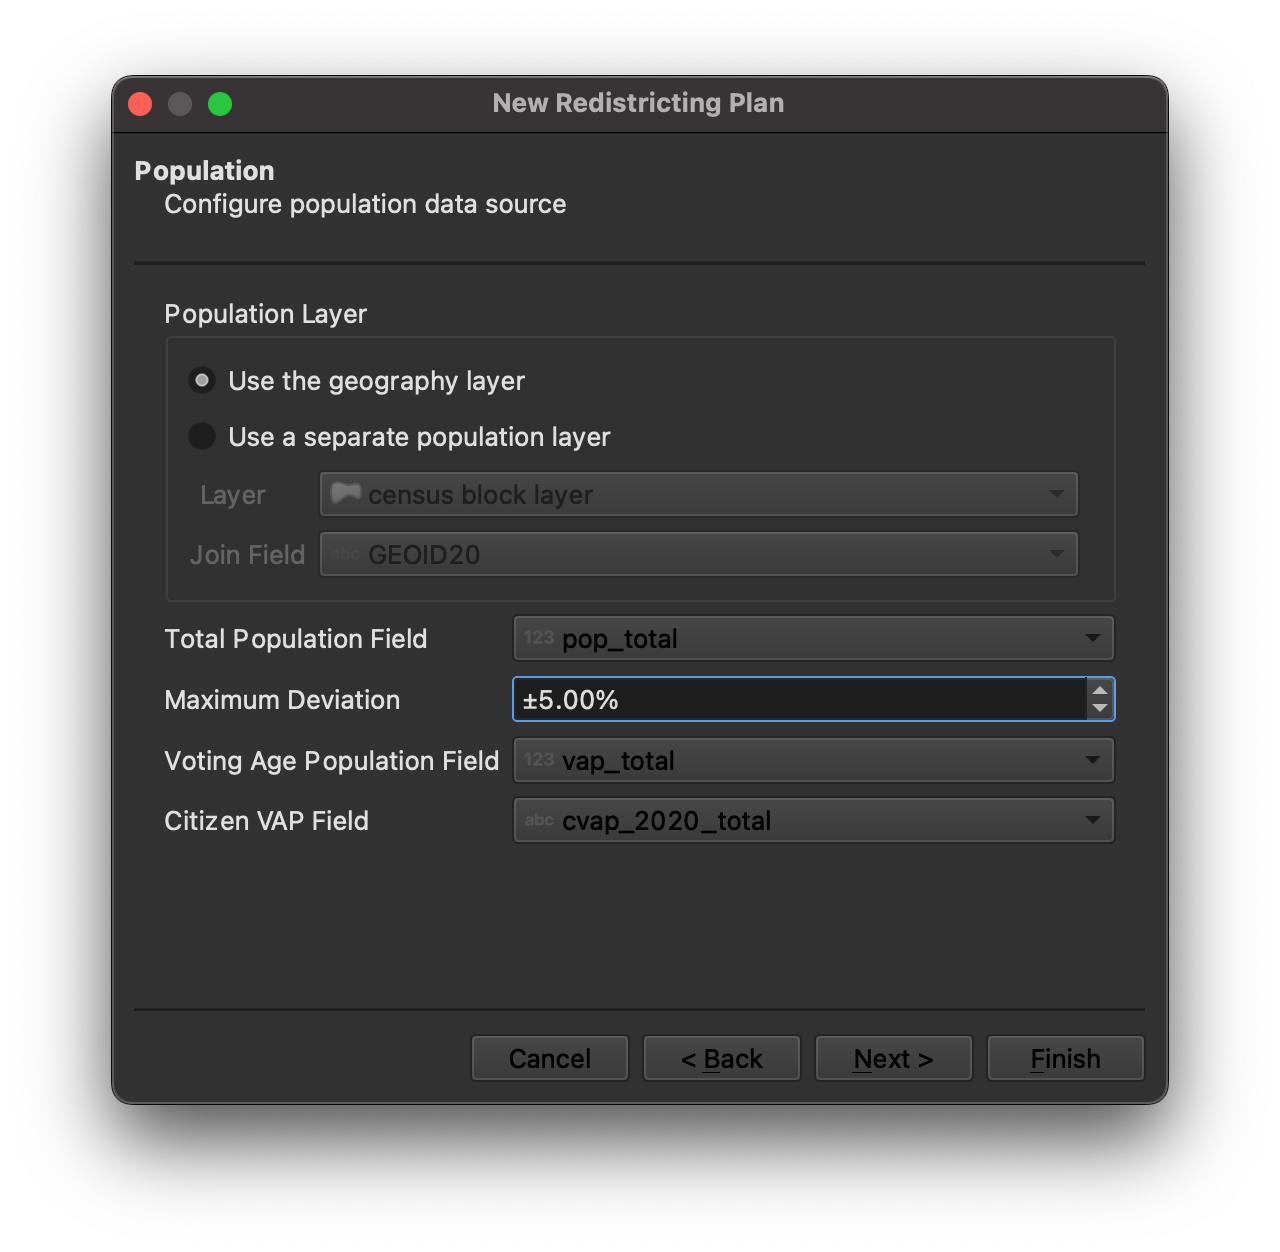
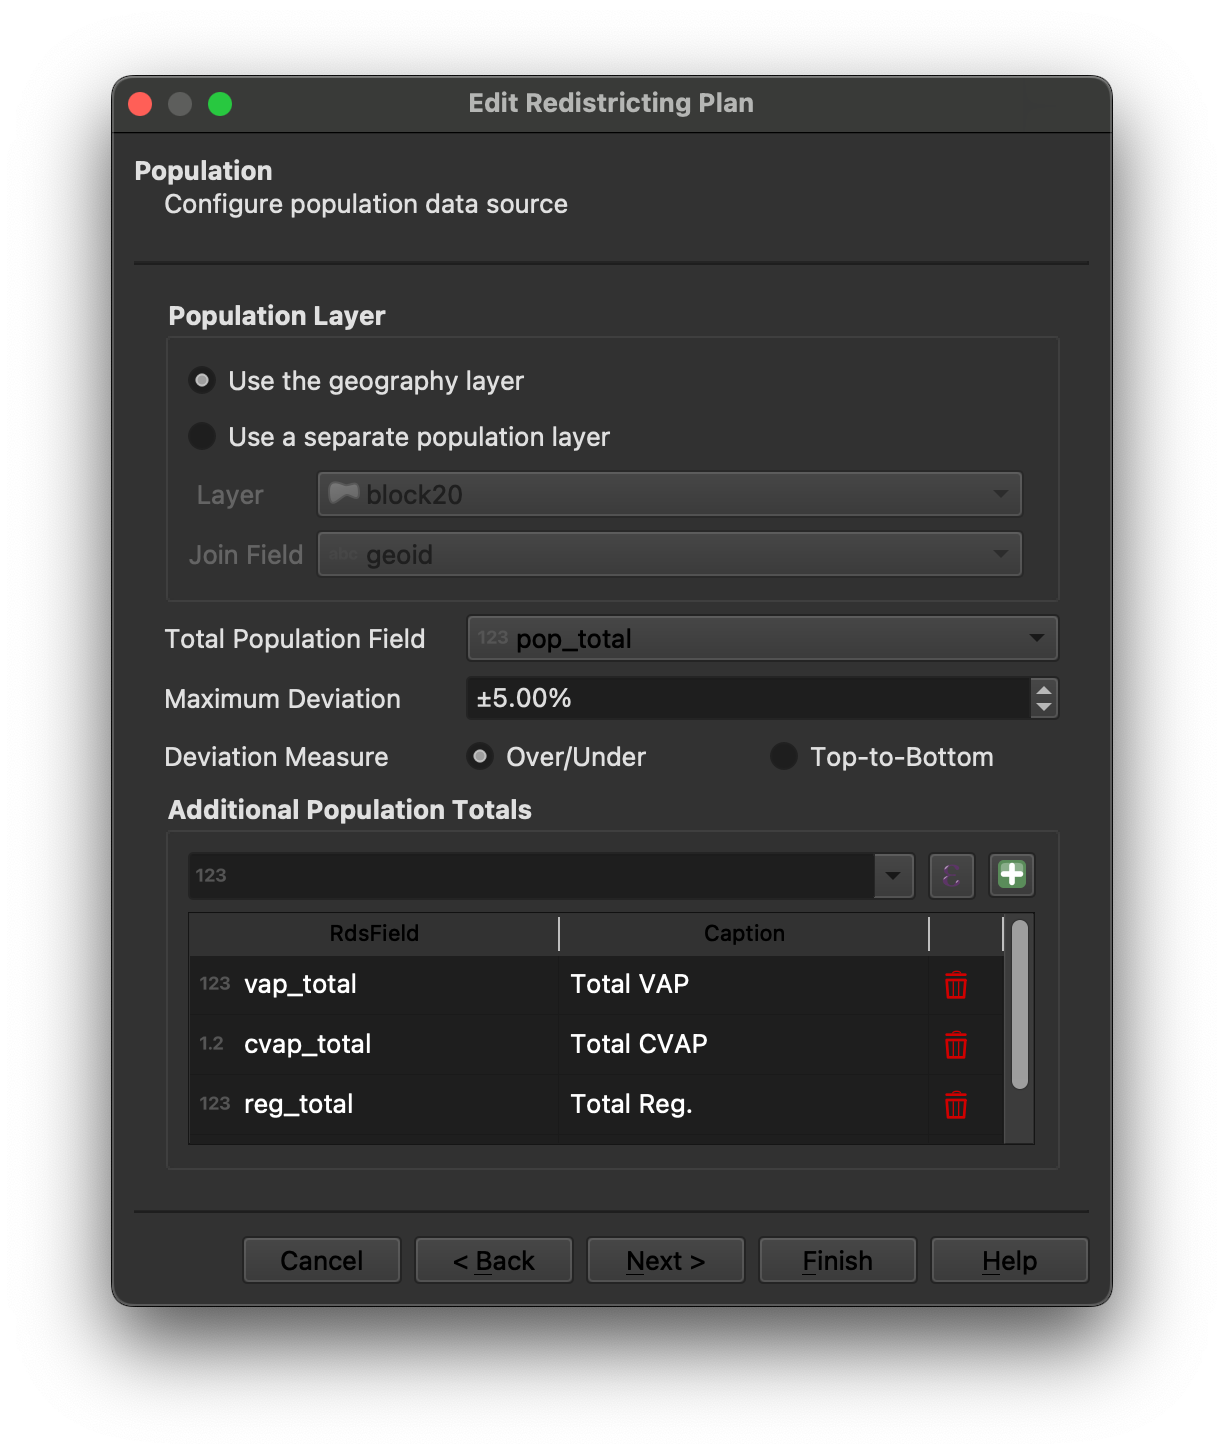
Update documentation

diff --git a/docs/source/conf.py b/docs/source/conf.py
@@ -18,12 +18,12 @@
 # -- Project information -----------------------------------------------------
 
 project = 'QGIS Redistricting Plugin'
-project_copyright = '2022, Stuart C. Naifeh'
+project_copyright = '2025, Stuart C. Naifeh'
 author = 'Stuart C. Naifeh'
 
-version = '0.0.1'
+version = '0.0.4'
 
-release = '0.0.1-alpha'
+release = '0.0.4-alpha'
 
 
 # -- General configuration ---------------------------------------------------
@@ -51,7 +51,7 @@ exclude_patterns = []
 html_theme = 'cloud'
 html_scaled_image_link = False
 html_favicon = 'images/icon.png'
-html_css_files = 'help.css'
+html_css_files = ['help.css']
 
 # Add any paths that contain custom static files (such as style sheets) here,
 # relative to this directory. They are copied after the builtin static files,

diff --git a/docs/source/usage/create_plan.rst b/docs/source/usage/create_plan.rst
@@ -1,26 +1,28 @@
 Create a New Redistricting Plan
 ===============================
 
-.. note::   
-            Before you can create a plan, you must create a QGIS project that 
-            includes the layer or layers containing the geographic units and 
+.. note::
+            Before you can create a plan, you must create a QGIS project that
+            includes the layer or layers containing the geographic units and
             demographic data from which your redistricting plan will be built.
 
 The \"Create New Plan\" dialog
 ------------------------------
 
-When New Redistricting Plan is selected from the QGIS redistricting plugin toolbar or 
-menu, the "Create New Plan" dialog guides you through creating a redistricting plan.
+When New Redistricting Plan is selected from the QGIS redistricting plugin
+toolbar or menu, the "Create New Plan" dialog guides you through creating
+a redistricting plan.
 
 .. _page-1:
 
 Page 1 - Plan Details
 ^^^^^^^^^^^^^^^^^^^^^
 
-The first page of the "Create New Plan" dialog allows you to select a name for your plan,
-provide the path to a new GeoPackage file that will contain your plan layers, and specify
-the number of districts in your plan and the number of members who will represent those 
-districts. You may also provide an optional description. The following constraints apply. 
+The first page of the "Create New Plan" dialog allows you to select a name for
+your plan, provide the path to a new GeoPackage file that will contain your
+plan layers, and specify the number of districts in your plan and the number
+of members who will represent those districts. You may also provide an
+optional description. The following constraints apply.
 
 * The plan name must be unique among redistricting plans for your project
 * There must be two or more districts in your plan
@@ -33,25 +35,32 @@ districts. You may also provide an optional description. The following constrain
 Page 2 - Geography
 ^^^^^^^^^^^^^^^^^^
 
-The second page of the "Create New Plan" dialog allows you to define the geography from
-which your plan will be built.
+The second page of the "Create New Plan" dialog allows you to define the
+geography from which your plan will be built.
 
-``Import Geography from Layer`` - Specify the layer containing the smallest units of 
-geography you will use to create your plan (e.g., census blocks). 
+``Import Geography from Layer`` - Specify the layer containing the smallest
+units of geography you will use to create your plan (e.g., census blocks).
+QGIS Redistrictin Plugin can use geography from any vector layer format
+supported by QGIS. However, formats such as PostGIS or GeoPackage, which
+allow for indexes on attribute fields, provide better performance than
+formats such as ESRI Shapefile or GeoJson.
 
-``Primary Geography ID Field`` - Specify the layer attribute that uniquely identifies 
-the geographic units. This field will be used to join the layer containing the demographic 
-data (if it is different from the geography layer).
+``Primary Geography ID Field`` - Specify the layer attribute that uniquely
+identifies the geographic units. This field will be used to join the layer
+containing the demographic data (if it is different from the geography layer).
 
-``Geography Name`` - You may also provide a more descriptive label for your geographic units here.
+``Geography Name`` - You may also provide a more descriptive label for your
+geographic units here.
 
-``Additional Geography`` - Here, you may define additional units of geography that may be used 
-to build your districts. Geography is defined using fields from the primary geography layer.
-For example, if your primary layer is U.S. Census Bureau census blocks, and each block contains 
-an identifier for the county or census tract in which it falls, you can add that field to the 
-list of additional geography to allow building districts from counties or census tracts. You may
-define additional geography using individual attriabutes or QGIS expressions. Once the 
-addtional unit is added, a more descriptive caption or label can be provided.
+``Additional Geography`` - Here, you may define additional units of geography
+that may be used to build your districts. Geography is defined using fields
+from the primary geography layer. For example, if your primary layer is U.S.
+Census Bureau census blocks, and each block contains an identifier for the
+county or census tract in which it falls, you can add that field to the list
+of additional geography to allow building districts from counties or census
+tracts. You may define additional geography using individual attributes or
+QGIS expressions. Once the addtional unit is added, a more descriptive caption
+or label can be provided.
 
 .. image:: /images/create_plan_page2.png
 
@@ -59,30 +68,41 @@ addtional unit is added, a more descriptive caption or label can be provided.
 
 Page 3 - Population
 ^^^^^^^^^^^^^^^^^^^
+
 The third page of the "Create New Plan" dialog allows you to specify the layer
 containing the population data your plan will use.
 
-``Population Layer`` - If your population data is contained in a separate layer from
-your geographical building blocks, specify the population layer here. Population data 
-must be provided at the same level of geography as the geographic units. If not using a
-separate population layer, specify "Use the geography layer" here.
+``Population Layer`` - If your population data is contained in a separate
+layer from your geographical building blocks, specify the population layer
+here. Population data must be provided at the same level of geography as the
+geographic units. If not using a separate population layer, specify "Use the
+geography layer" here.
 
 ``Join Field`` - If using a separate population layer from the geography layer,
-specify the field in the population layer that will be used to join the population 
-data to the geographic units. This field must contain the same geographic identifier 
-as the Geo ID Field used to uniquely identify the geography.
+specify the field in the population layer that will be used to join the
+population data to the geographic units. This field must contain the same
+geographic identifier as the Geo ID Field used to uniquely identify the
+geography.
 
-``Total Population Field`` - Specify the name of the attribute containing the total
-population for each geographic unit.
+``Total Population Field`` - Specify the name of the attribute containing the
+total population for each geographic unit. This field is used to validate that
+each district falls within the maximum deviation allowed for the plan.
 
-``Maximum Deviation`` - Specify the maximum population deviation above or below the 
-ideal population for each district that is permitted for your plan.
+``Maximum Deviation`` - Specify the maximum population deviation above or below
+the ideal population for each district that is permitted for your plan.
 
-``Voting Age Population Field`` - Optionally specify a field containing the total 
-voting age population for each geographic unit.
+``Deviation Measure`` - Select how deviation will be measured for your plan.
+`Over/Under` limits the deviation of each district to plus or minus the
+specified maximum. `Top-to-Bottom` limits the deviation from the largest to
+the smallest district to the specified maximum.
 
-``Citizen VAP Field`` - Optionally specify a field containing the total 
-citizen voting age population for each geographic unit.
+``Additional Population Totals`` - Here, you may optionally define additional
+population totals that will be reported for your districts. For example,
+voting age population or total registered voters. These units may be used as
+the base for calculating percentages for the data fields. See :ref:<_page-4>
+You may define additional population totals using individual attributes or
+QGIS expressions. Once the addtional unit is added, a more descriptive caption
+or label can be provided.
 
 .. image:: /images/create_plan_page3.png
 
@@ -91,16 +111,17 @@ citizen voting age population for each geographic unit.
 Page 4 - Additional Demographic Data
 ^^^^^^^^^^^^^^^^^^^^^^^^^^^^^^^^^^^^
 
-The fourth page of the "Create New Plan" dialog allows you to specify additiolnal 
-demographic data that will be tracked for each district in your plan.
+The fourth page of the "Create New Plan" dialog allows you to specify
+additional demographic data that will be tracked for each district in your
+plan.
 
 Demographic data is defined using fields from the population layer. You may
-define demographic using individual attributes from the population layer or 
-QGIS expressions. Once the addtional demographic data field is added, a more 
-descriptive caption or label can be provided, and you can specify whether to track
-the total population for the demographic group and/or the population of the deographic 
-group as a percentage of total population, voting age population, or citizen voting
-age population.
+define demographic using individual attributes from the population layer or
+QGIS expressions. Once the addtional demographic data field is added, a more
+descriptive caption or label can be provided, and you can specify whether to
+track the total population for the demographic group and/or the population of
+the deographic group as a percentage of total population or one of the
+:ref:`additional population fields<page-3>` defined in your plan.
 
 .. image:: /images/create_plan_page4.png
 
@@ -110,8 +131,8 @@ Page 5 - Import Assignments
 ^^^^^^^^^^^^^^^^^^^^^^^^^^^
 
 The fifth and final page of the "Create New Plan" dialog allows you to optional
-import district assignments for your plan from a CSV or Microsoft Excel file. You
-may also import assignments at a later point using the "Import Assignments" option
-available on the QGIS redistricting plugin menu.
+import district assignments for your plan from a CSV or Microsoft Excel file.
+You may also import assignments at a later point using the "Import Assignments"
+option available on the QGIS redistricting plugin menu.
 
 .. image:: /images/create_plan_page5.png

diff --git a/docs/source/usage/getting_started.rst b/docs/source/usage/getting_started.rst
@@ -1,17 +1,26 @@
 Getting Started with Redistricting
 ==================================
 
-The QGIS Redistricting plugin allows you to create redistricting plans for legislative and other governmental bodies. You specify the number of districts and the geographic units from which plans will be built, as well as other plan parameters, such as what layer and attributes to use for population demographics, the allowable population deviation, and additional geographies to use for drawing districts. Plan parameters are stored as part of the QGIS project, while assignments of geographies to districts and district geometry and metrics are stored as vector layers in a GeoPackage file.
+The QGIS Redistricting plugin allows you to create redistricting plans for
+legislative and other governmental bodies. You specify the number of
+districts and the geographic units from which plans will be built, as well as
+other plan parameters, such as what layer and attributes to use for population
+demographics, the allowable population deviation, and additional geographies
+to use for drawing districts. Plan parameters are stored as part of the QGIS
+project, while assignments of geographies to districts and district geometry
+and metrics are stored as vector layers in a GeoPackage file.
 
 Plugin Toolbar
 --------------
 
-When you install the QGIS redistricting plugin, it will add the redistricting toolbar to the QGIS main window.
+When you install the QGIS redistricting plugin, it will add the redistricting
+toolbar to the QGIS main window.
 
 .. image:: /images/plugin_toolbar.png
 
-All of the QGIS redistricting plugin functions available form the plugin toolbar can
-also be accessed from the QGIS main menu at :menuselection:`Vector --> Redistricting`. 
+All of the QGIS redistricting plugin functions available form the plugin
+toolbar can also be accessed from the QGIS main menu at
+:menuselection:`Vector --> Redistricting`.
 
 ..  |planmgr| image:: /images/icon.svg
     :height: 32px
@@ -29,6 +38,11 @@ also be accessed from the QGIS main menu at :menuselection:`Vector --> Redistric
     :align: top
 
 ..  |datatbl| image:: /images/district_data.svg
+    :height: 32px
+    :width: 32px
+    :align: top
+
+..  |metrics| image:: /images/planmetrics.svg
     :height: 32px
     :width: 32px
     :align: top
@@ -53,9 +67,11 @@ also be accessed from the QGIS main menu at :menuselection:`Vector --> Redistric
     |preview| Display or hide the the preview window. The preview window displays
               the effect on district demographics of pending unsaved changes.
     |datatbl| Display or hide the the district data window. The district data
-              window displays demographic data and metrics for each district and
-              the entire plan, and indicates whether districts are within the
-              required deviation.
+              window displays demographic data and metrics for each district,
+              and indicates whether districts are within the required deviation.
+    |metrics| Display or hide the metrics window. The metrics window displays plan
+              metrics for the entire plan, including population deviation, compactness,
+              and split geographies.
     |button|  Clicking the arrow next to the plan manager button opens the
               redistricting menu, which provides access to additional plugin
               functionality.

diff --git a/docs/source/usage/preview.rst b/docs/source/usage/preview.rst
@@ -1,8 +1,14 @@
 Pending Changes Window
 ======================
 
-The Pending Changes window shows the impact of pending but not yet saved changes on
-the affected districts.
+As you assign geographic units to disticts, the Pending Changes window shows
+the impact of those pending but not yet saved changes on the affected
+districts. Although the district paint tool is the simplest means of visually
+assigning geogrphy to districts, the Pending Changes window will show the
+effect of unsaved changes in assignments no matter how they are made. This
+means you can use any of the tools available in QGIS to edit your plans, and
+the Pending Changes window will show you the effect of those changes on the
+population and demographics of the districts.
 
 .. image:: /images/pending_changes.png
    :scale: 80%

diff --git a/docs/source/usage/data_table.rst b/docs/source/usage/data_table.rst
@@ -1,8 +1,13 @@
 Data Table Window
 =================
 
-The data table window provides demographics and metrics for each district
-in your plan and for the plan as a whole. 
+The data table window provides demographics and metrics for each district in
+your plan. It shows the total population for each district, the totals for
+each additional population total in your plan and the the totals for each of
+the demographic date fields you've added. In addition, it shows the population
+deviation as an absolute and as a percentage of the total population. If the
+district falls without the allowed deviation, the deviation figures are
+displayed on a green background. The data table also shows select compactness
+scores for each district.
 
 .. image:: /images/data_table.png
-   

diff --git a/docs/source/usage/metrics_table.rst b/docs/source/usage/metrics_table.rst
@@ -1,0 +1,17 @@
+Plan Metrics Window
+===================
+
+The Metrics Table shows planwide metrics for your plan, including total
+population, deviation, mean compactness scores, and split geographies for
+each of the additional geographies in your plan.
+
+.. image:: /images/metrics_table.png
+   :scale: 80%
+
+Double clicking on split geography entry in the Metrics Table will display
+detailed information about the splits, including the districts between or
+among which the geographic unit is split, and the population assigned to each
+of the split piece.
+
+.. image:: /images/splits_tree.png
+    :scale: 80%

diff --git a/docs/source/index.rst b/docs/source/index.rst
@@ -10,7 +10,7 @@ QGIS Redistricting Plugin documentation
 =======================================
 
 The QGIS redistiting plugin enables the creation of political
-districting maps in QGIS. 
+districting maps in QGIS.
 
 .. toctree::
    :maxdepth: 2

diff --git a/docs/source/usage.rst b/docs/source/usage.rst
@@ -9,3 +9,4 @@ Usage
     usage/toolbox
     usage/preview
     usage/data_table
+    usage/metrics_table
